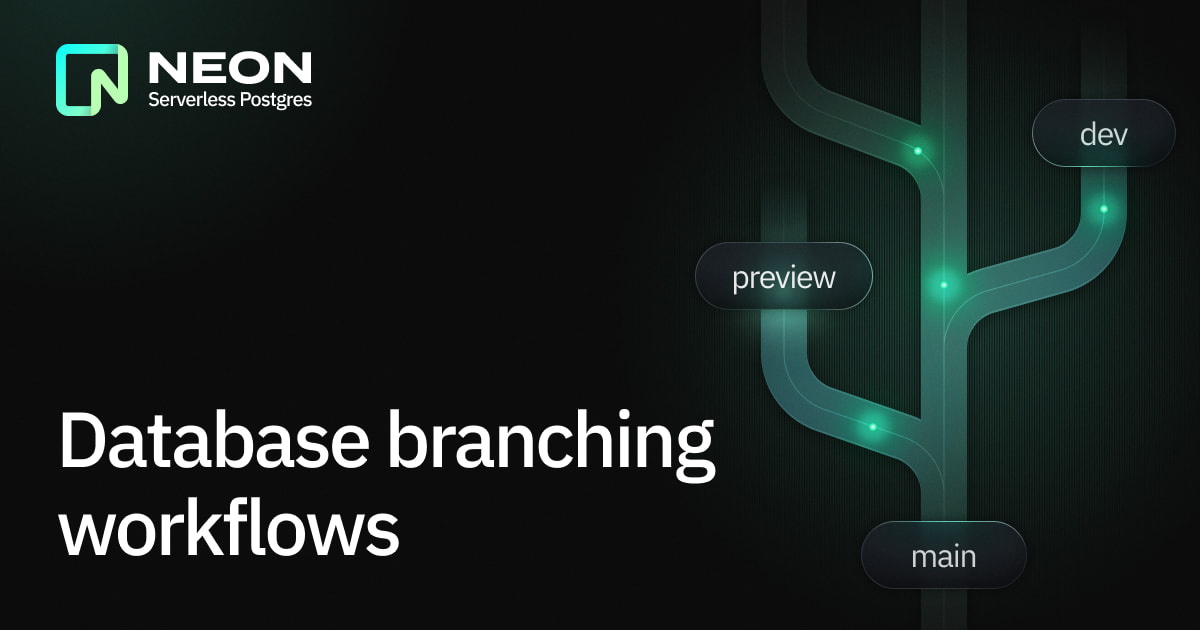
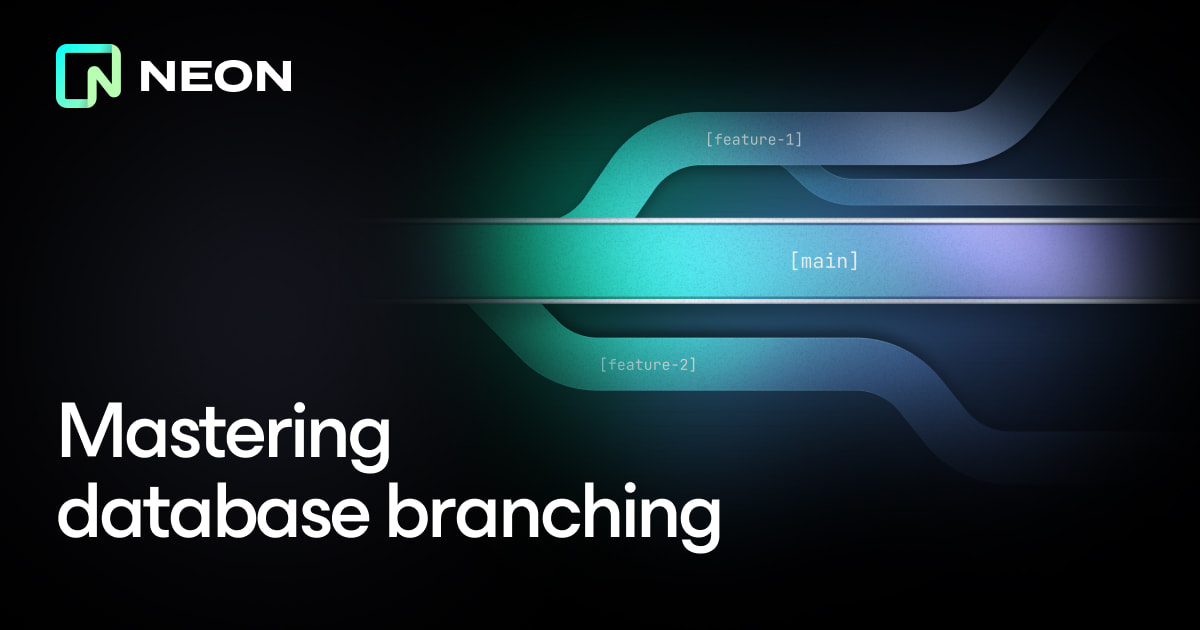
chore: update flow pages descriptions and menu links (#3647)
* chore: update flow pages descriptions, update menu link

* chore: new startups link for menu

* chore: update flow og image

diff --git a/src/constants/menus.js b/src/constants/menus.js
@@ -34,6 +34,8 @@ import PatternIcon from 'icons/header/pattern.inline.svg';
 import PeopleIcon from 'icons/header/people.inline.svg';
 import RestoreGradientIcon from 'icons/header/restore-gradient.inline.svg';
 import RestoreIcon from 'icons/header/restore.inline.svg';
+import RocketGradientIcon from 'icons/header/rocket-gradient.inline.svg';
+import RocketIcon from 'icons/header/rocket.inline.svg';
 import SearchGradientIcon from 'icons/header/search-gradient.inline.svg';
 import SearchIcon from 'icons/header/search.inline.svg';
 import SecurityGradientIcon from 'icons/header/security-gradient.inline.svg';
@@ -76,7 +78,7 @@ export default {
               icon: BranchingIcon,
               iconGradient: BranchingGradientIcon,
               title: 'Branching',
-              description: '1-click environments',
+              description: 'Modern Postgres workflows',
               to: LINKS.flow,
             },
             {
@@ -196,6 +198,13 @@ export default {
               title: 'Enterprise',
               description: 'Scale & grow',
               to: LINKS.enterprise,
+            },
+            {
+              icon: RocketIcon,
+              iconGradient: RocketGradientIcon,
+              title: 'Startups',
+              description: 'Build with Neon',
+              to: LINKS.startups,
             },
             {
               icon: SecurityIcon,
@@ -338,6 +347,10 @@ export default {
         {
           text: 'PostgreSQL Tutorial',
           to: LINKS.postgresqltutorial,
+        },
+        {
+          text: 'Startups',
+          to: LINKS.startups,
         },
         {
           text: 'Creators',

diff --git a/content/flow/neon-for-dev-test.md b/content/flow/neon-for-dev-test.md
@@ -1,5 +1,6 @@
 ---
 title: 'You’re using Neon for dev/test'
+subtitle: 'Adopt Neon branching gradually by starting with development and testing environments while keeping production elsewhere'
 updatedOn: '2025-07-08T12:47:21.296Z'
 ---
 

diff --git a/content/flow/introduction.md b/content/flow/introduction.md
@@ -1,5 +1,6 @@
 ---
 title: 'Traditional database workflows are broken'
+subtitle: 'Learn how outdated database practices slow down development and create bottlenecks for modern teams'
 updatedOn: '2025-07-08T12:47:21.296Z'
 ---
 

diff --git a/content/flow/production-on-neon.md b/content/flow/production-on-neon.md
@@ -1,5 +1,6 @@
 ---
 title: 'Production lives on Neon'
+subtitle: 'Run production and non-production environments on Neon with secure, isolated branching workflows for every use case'
 updatedOn: '2025-07-08T12:47:21.296Z'
 ---
 

diff --git a/content/flow/identifying-use-case.md b/content/flow/identifying-use-case.md
@@ -1,5 +1,6 @@
 ---
 title: 'Identifying your use case'
+subtitle: 'Choose the right branching strategy based on your production setup, data sensitivity, and team workflow'
 updatedOn: '2025-07-08T12:47:21.296Z'
 ---
 

diff --git a/content/flow/rethinking-the-database.md b/content/flow/rethinking-the-database.md
@@ -1,5 +1,6 @@
 ---
 title: 'Rethinking the database'
+subtitle: "Discover how Neon's branching model transforms database workflows with instant, ephemeral environments"
 updatedOn: '2025-07-08T12:47:21.296Z'
 ---
 

diff --git a/content/flow/ephemeral-environments.md b/content/flow/ephemeral-environments.md
@@ -1,5 +1,6 @@
 ---
 title: 'Ephemeral environments'
+subtitle: 'Create disposable, serverless database environments that spin up instantly and clean up automatically'
 updatedOn: '2025-07-08T12:47:21.296Z'
 ---
 

diff --git a/content/flow/projects.md b/content/flow/projects.md
@@ -1,5 +1,6 @@
 ---
 title: 'Projects'
+subtitle: 'Learn how Neon projects organize branches, compute endpoints, and access controls for scalable database management'
 updatedOn: '2025-07-08T12:47:21.296Z'
 ---
 

diff --git a/content/flow/branch-per-preview.md b/content/flow/branch-per-preview.md
@@ -1,5 +1,6 @@
 ---
 title: 'One branch per preview'
+subtitle: 'Automatically create isolated database environments for every pull request and preview deployment'
 updatedOn: '2025-07-08T12:47:21.296Z'
 ---
 

diff --git a/content/flow/resources-and-next-steps.md b/content/flow/resources-and-next-steps.md
@@ -1,5 +1,6 @@
 ---
 title: 'Resources and next steps'
+subtitle: 'Explore documentation, guides, and integrations to get the most out of Neon branching workflows'
 updatedOn: '2025-07-08T12:47:21.296Z'
 ---
 

diff --git a/content/flow/branch-per-test-run.md b/content/flow/branch-per-test-run.md
@@ -1,5 +1,6 @@
 ---
 title: 'One branch per test run'
+subtitle: 'Ensure reliable, isolated testing with fresh database environments for every CI/CD pipeline run'
 updatedOn: '2025-07-08T12:47:21.296Z'
 ---
 

diff --git a/content/flow/branching-for-agents.md b/content/flow/branching-for-agents.md
@@ -1,5 +1,6 @@
 ---
 title: 'Branching for agents'
+subtitle: 'Enable safe AI agent workflows with database checkpoints, rollbacks, and time travel capabilities'
 updatedOn: '2025-07-08T12:47:21.296Z'
 ---
 
